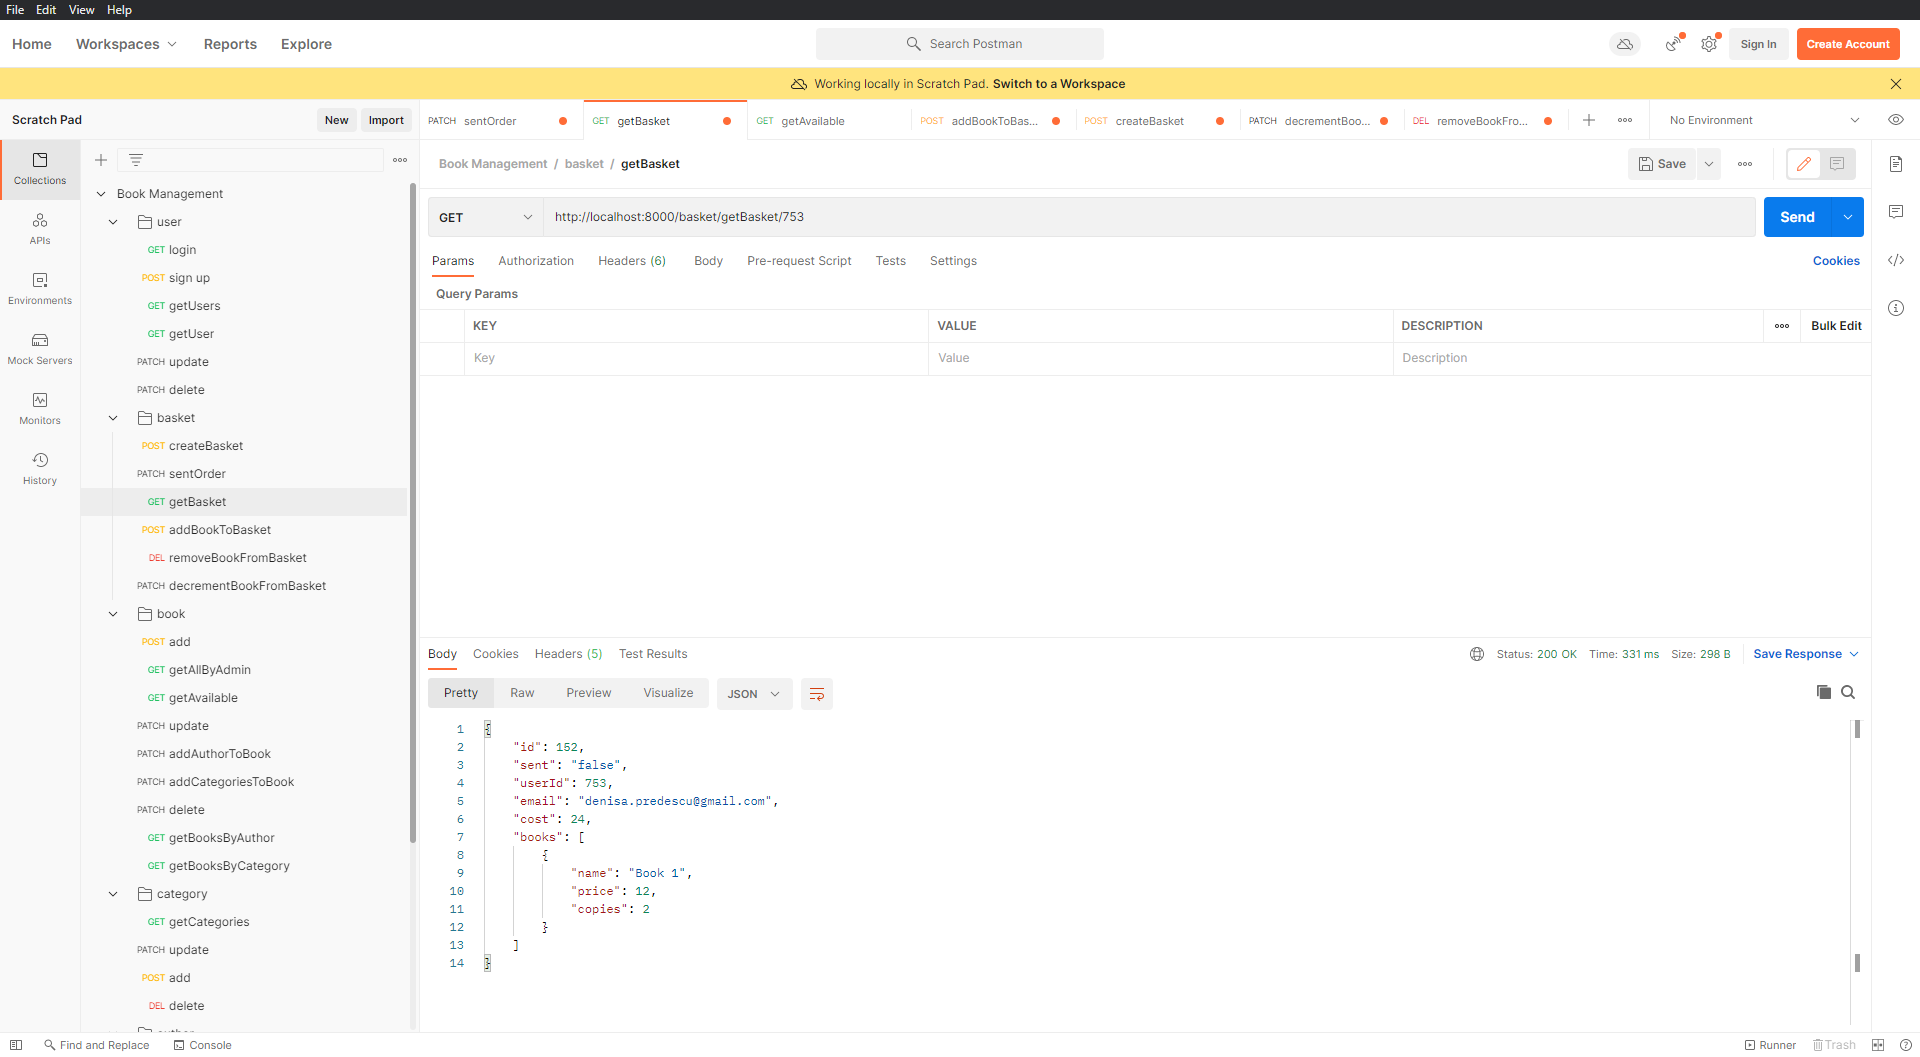
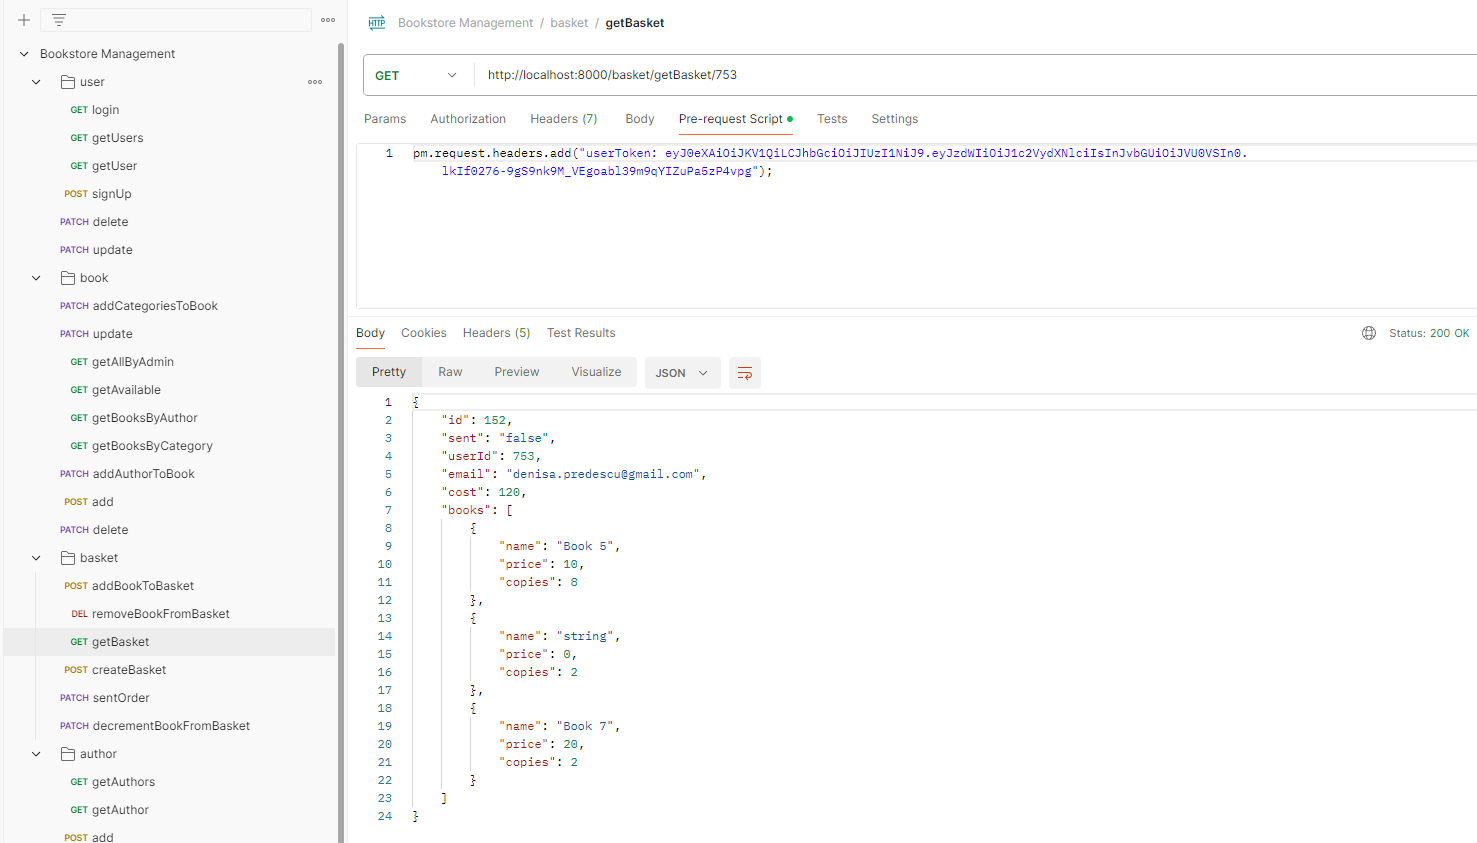
added tokens and picture

diff --git a/README.md b/README.md
@@ -235,6 +235,15 @@ To add a parameter in the request header using *@RequestHeader* you should write
 > **foo** is the key <br>
 > **bar** is the value
 
+> ADMIN VERSION:
+> 
+> pm.request.headers.add("userToken: eyJ0eXAiOiJKV1QiLCJhbGciOiJIUzI1NiJ9.eyJzdWIiOiJEZW5pc2FQcmVkZXNjdSIsInJvbGUiOiJBRE1JTiJ9.ZA0vxSE7keltGZWcNYlRTor-TBOXOrUxFbCsUleok4Y");
+
+> CUSTOMER version:
+>
+> pm.request.headers.add("userToken: eyJ0eXAiOiJKV1QiLCJhbGciOiJIUzI1NiJ9.eyJzdWIiOiJ1c2VydXNlciIsInJvbGUiOiJVU0VSIn0.lkIf0276-9gS9nk9M_VEgoabl39m9qYIZuPa5zP4vpg");
+
+
 <p align="center">
   <img src="pictures/request header example.png" alt="request header example">
 </p>
